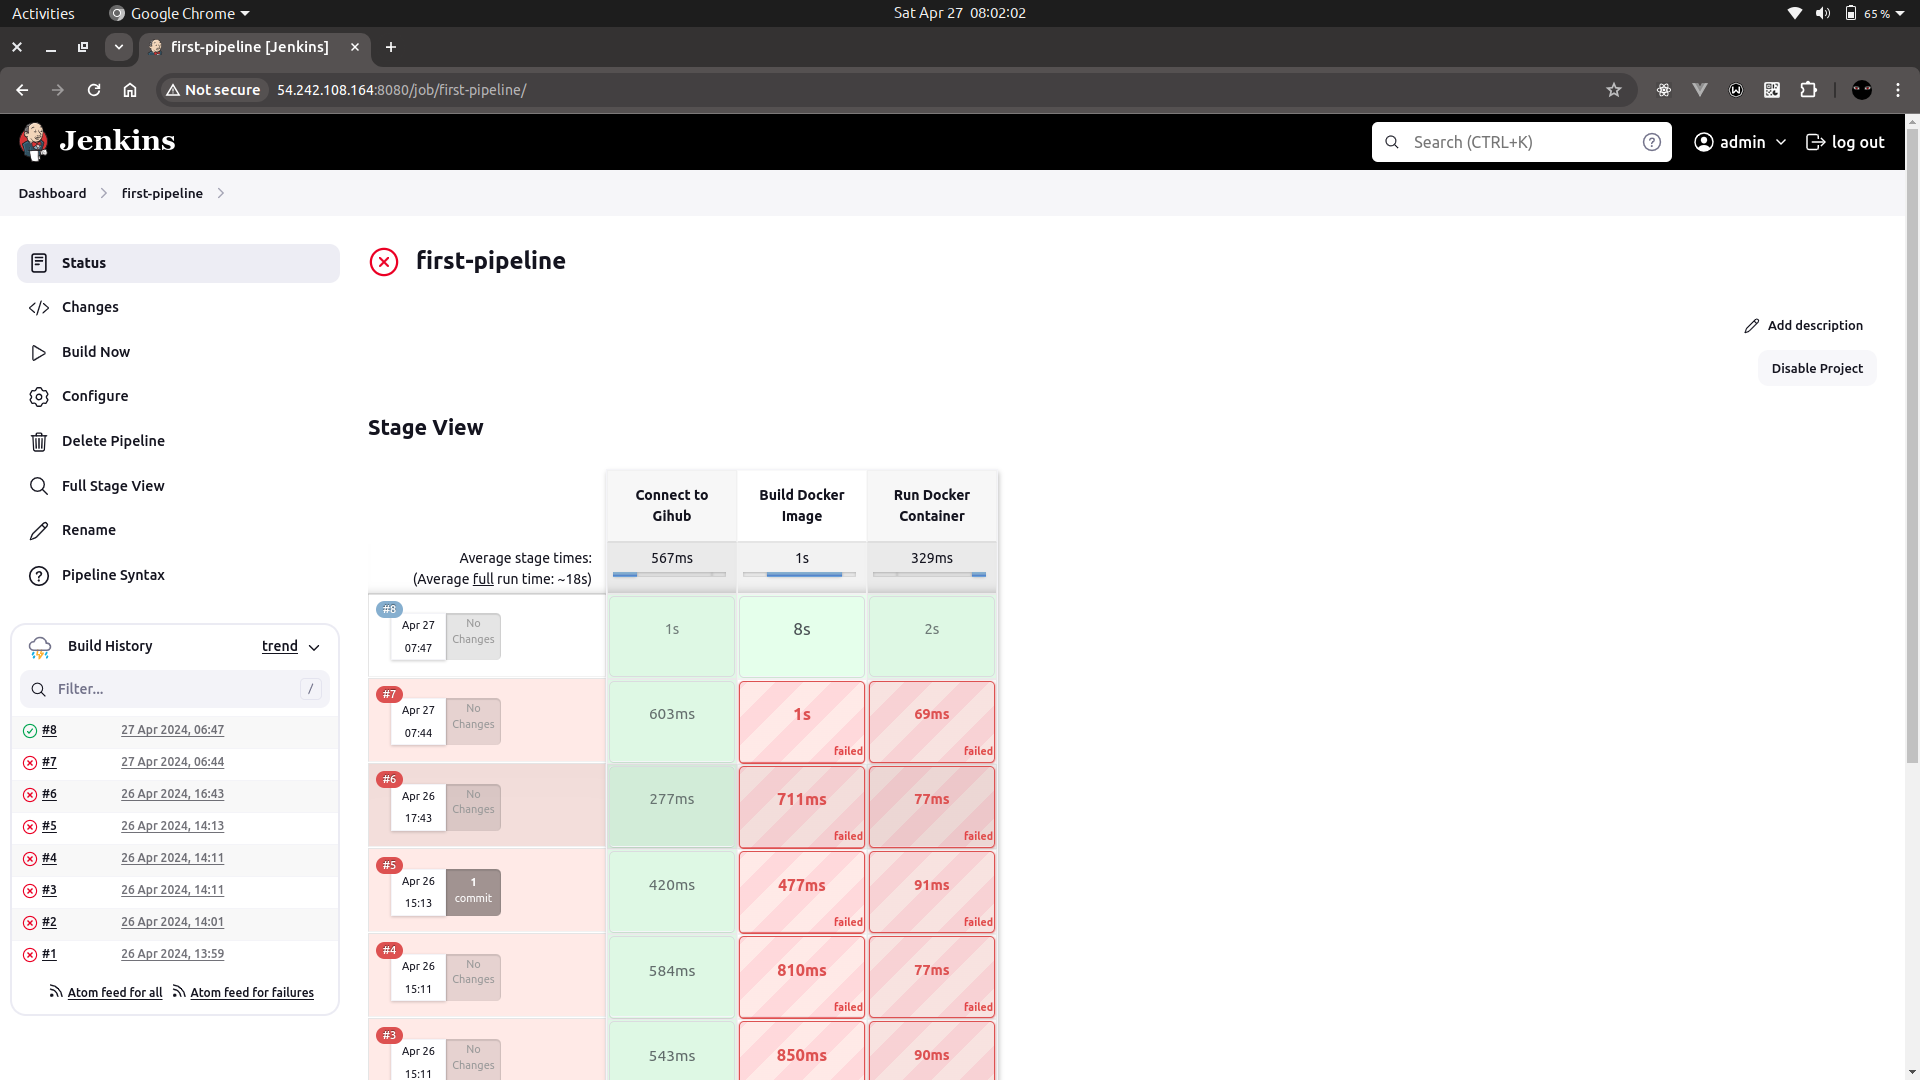
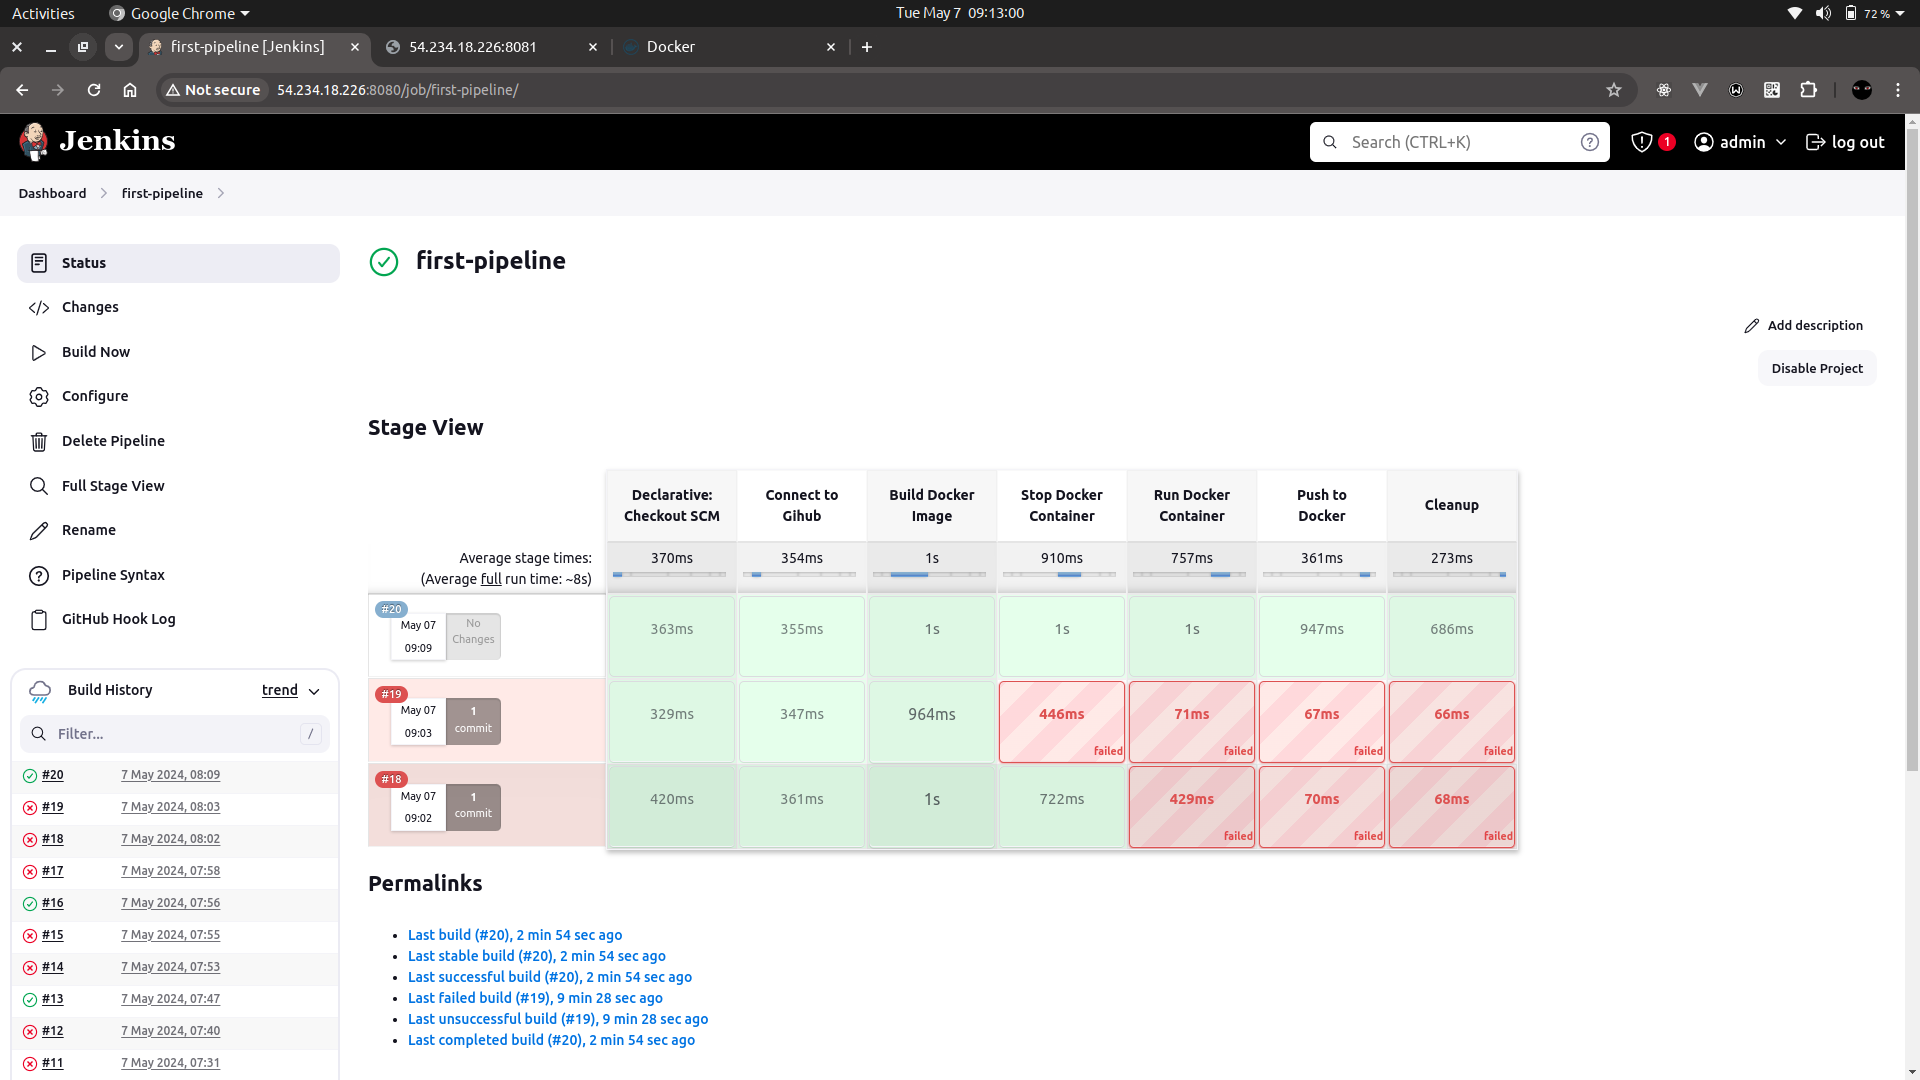
update docs

diff --git a/jenkins.md b/jenkins.md
@@ -33,7 +33,98 @@
 
 ## Create a Freestyle Job
 ![Jenkins](images/freestyle-test.png)
+![Jenkins](images/webhook.png)
+
+## Install And Run Docker
+
+```bash
+  sudo apt update -y
+
+  sudo apt install apt-transport-https ca-certificates curl software-properties-common -y
+
+  curl -fsSL https://download.docker.com/linux/ubuntu/gpg | sudo apt-key add -
+
+  sudo add-apt-repository "deb [arch=amd64] https://download.docker.com/linux/ubuntu bionic stable" -y
+
+  sudo apt update -y
+
+  apt-cache policy docker-ce
+
+  sudo apt install docker-ce -y
+
+  sudo systemctl status docker
+
+  sudo chmod 777 /var/run/docker.sock
+```
 
 ## Create a Pipeline Job
+
+### Pipeline Script
+```groovy
+pipeline {
+  agent any
+
+  environment {
+		DOCKERHUB=credentials('dockerhub')
+	}
+
+  stages {
+    stage('Connect to Gihub') {
+      steps {
+        git branch: 'main', url: 'https://github.com/Horleryheancarh/jenkins-scm.git'
+      }
+    }
+
+    stage('Build Docker Image') {
+      steps {
+        script {
+          sh 'docker build -t yheancarh/jenkins-scm:${BUILD_NUMBER} .'
+        }
+      }
+    }
+
+    stage('Stop Docker Container') {
+      steps {
+        script {
+          sh 'docker stop test-app'
+
+          sh 'docker rm test-app'
+        }
+      }
+    }
+
+    stage('Run Docker Container') {
+      steps {
+        script {
+          sh 'docker run -itd -p 8081:80 --name test-app yheancarh/jenkins-scm:${BUILD_NUMBER}'
+        }
+      }
+    }
+
+    stage('Push to Docker') {
+      steps {
+        script {
+          sh 'echo $DOCKERHUB_PSW | docker login -u $DOCKERHUB_USR --password-stdin'
+
+          sh 'docker push yheancarh/jenkins-scm:${BUILD_NUMBER}'
+        }
+      }
+    }
+
+    stage('Cleanup') {
+      steps {
+        cleanWs(cleanWhenAborted: true, cleanWhenFailure: true, cleanWhenNotBuilt: true, cleanWhenUnstable: true, deleteDirs: true)
+        
+        sh 'docker logout'
+        
+        sh 'docker system prune -f'
+      }
+    }
+  }
+}
+```
+
+![Jenkins](images/dockercredentials.png)
 ![Jenkins](images/pipeline-test.png)
+![Jenkins](images/dockerimages.png)
 ![Jenkins](images/webview.png)
